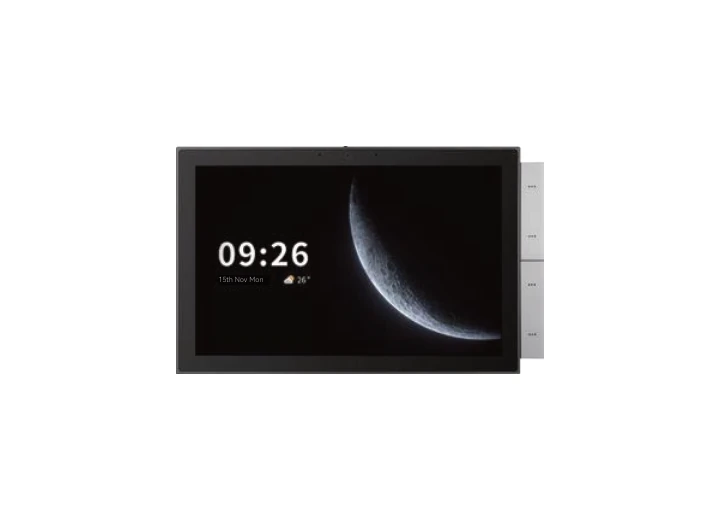
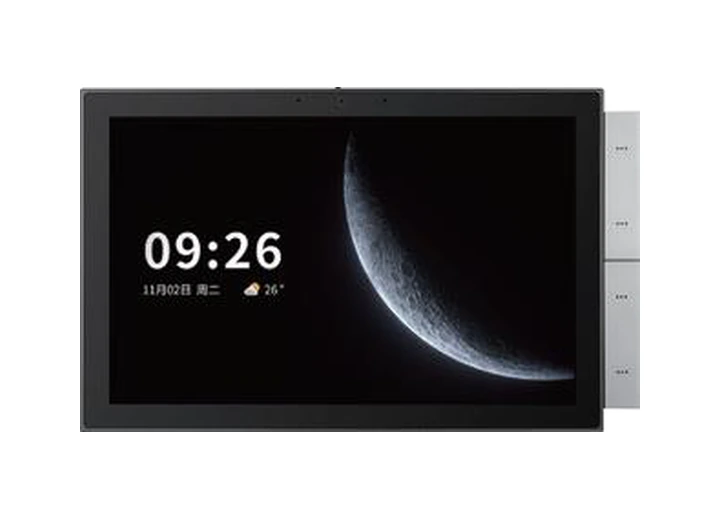
Add complete smart control panel catalogue

diff --git a/app/shop/controlPanelExpansion.ts b/app/shop/controlPanelExpansion.ts
@@ -1,0 +1,158 @@
+import type { Product } from "./products";
+
+const tuyaPairing = "Tuya Zigbee support stated; confirm final pairing before order";
+
+export const controlPanelExpansion: Product[] = [
+  {
+    sku: "KI-TAOS-CP-SCPNS35",
+    model: "SCP-NS3.5",
+    name: "3.5-inch Zigbee relay control panel",
+    category: "Control panels",
+    categoryKey: "panels",
+    family: "Compact relay panels",
+    image: "scp-ns3-5.webp",
+    protocol: "Zigbee / RS485 reserved",
+    ecosystem: "Tuya Zigbee support stated",
+    gateway: "Confirm gateway role with supplier",
+    neutral: "86-type junction box",
+    electrical: "4-channel relay; load rating not stated",
+    size: "86 x 86 x 40.5mm",
+    salesPath: "Configure a project",
+    launchTier: "Conditional",
+    cataloguePage: 30,
+    note: "3.5-inch 320 x 480 display with radar wake, eight scenes, curtain and dimming controls; power and relay ratings require confirmation.",
+  },
+  {
+    sku: "KI-TAOS-CP-SCPTS35",
+    model: "SCP-TS3.5",
+    name: "3.5-inch Wi-Fi, Sigmesh and IR control panel",
+    category: "Control panels",
+    categoryKey: "panels",
+    family: "Compact relay panels",
+    image: "scp-ts3-5.webp",
+    protocol: "Wi-Fi / Sigmesh / IR",
+    ecosystem: "Supplier mobile-app control stated; Tuya pairing not stated",
+    gateway: "Not stated",
+    neutral: "Mains-powered; 86-type base",
+    electrical: "AC 100-240V; 3 x 200W; 600W total",
+    size: "86 x 86 x 36.5mm with base",
+    salesPath: "Configure a project",
+    launchTier: "Conditional",
+    cataloguePage: 30,
+    note: "Three physical buttons, three relays and built-in infrared emitters; exact app and ecosystem must be confirmed.",
+  },
+  {
+    sku: "KI-TAOS-CP-SCPTS4",
+    model: "SCP-TS4",
+    name: "4-inch Zigbee and Bluetooth Mesh control panel",
+    category: "Control panels",
+    categoryKey: "panels",
+    family: "Compact gateway panels",
+    image: "scp-ts4.webp",
+    protocol: "Wi-Fi / Zigbee / Bluetooth Mesh",
+    ecosystem: "Supplier states Zigbee and Bluetooth Mesh gateway functions",
+    gateway: "Built in",
+    neutral: "Mains-powered; EU base",
+    electrical: "AC 100-240V",
+    size: "86 x 86 x 36.2mm with base",
+    salesPath: "Configure a project",
+    launchTier: "Core",
+    cataloguePage: 29,
+    note: "4-inch 480 x 480 Linux panel with Alexa built-in, dual microphones and 1W speaker; final Tuya pairing must be confirmed.",
+  },
+  {
+    sku: "KI-TAOS-CP-SCPNS6",
+    model: "SCP-NS6",
+    name: "6-inch Tuya Zigbee gateway control panel",
+    category: "Control panels",
+    categoryKey: "panels",
+    family: "Central gateway panels",
+    image: "scp-ns6.webp",
+    protocol: "Wi-Fi / Ethernet / Zigbee 3.0 / Bluetooth / RS485",
+    ecosystem: tuyaPairing,
+    gateway: "Tuya Zigbee gateway stated",
+    neutral: "Mains-powered; single 86 box",
+    electrical: "AC 110-250V; 2-channel light control below 200W",
+    size: "208 x 86 x 11.5mm",
+    salesPath: "Configure a project",
+    launchTier: "Extended",
+    cataloguePage: 30,
+    note: "6-inch 1440 x 720 display plus 1.28-inch round screen; Android 8.1, 2GB RAM and 8GB storage are supplier-stated.",
+  },
+  {
+    sku: "KI-TAOS-CP-SCPTS8",
+    model: "SCP-TS8",
+    name: "8-inch Zigbee and Bluetooth gateway control panel",
+    category: "Control panels",
+    categoryKey: "panels",
+    family: "Central gateway panels",
+    image: "scp-ts8.webp",
+    protocol: "Wi-Fi / Ethernet / Zigbee / Bluetooth",
+    ecosystem: "Supplier states Zigbee and Bluetooth Mesh/BLE gateway functions",
+    gateway: "Built in",
+    neutral: "Mains-powered; EU base",
+    electrical: "AC 100-240V",
+    size: "127.5 x 233.5 x 38mm with base",
+    salesPath: "Configure a project",
+    launchTier: "Extended",
+    cataloguePage: 30,
+    note: "8-inch 1280 x 800 Android panel with Alexa built-in and temperature/humidity sensing; final ecosystem pairing must be confirmed.",
+  },
+  {
+    sku: "KI-TAOS-CP-SCPNS8",
+    model: "SCP-NS8",
+    name: "8-inch Tuya Zigbee audio and intercom control panel",
+    category: "Control panels",
+    categoryKey: "panels",
+    family: "Audio & intercom panels",
+    image: "scp-ns8.webp",
+    protocol: "Wi-Fi / Ethernet / Zigbee 3.0 / Bluetooth / RS485",
+    ecosystem: tuyaPairing,
+    gateway: "Tuya Zigbee gateway stated",
+    neutral: "AC 110-250V; secondary input option requires confirmation",
+    electrical: "2-channel strong-current control; each channel below 200W",
+    size: "250 x 133 x 10mm",
+    salesPath: "Configure a project",
+    launchTier: "Conditional",
+    cataloguePage: 30,
+    note: "8-inch 1280 x 800 display with round sub-screen, audio input/output, amplified speaker output and building-intercom interface.",
+  },
+  {
+    sku: "KI-TAOS-CP-SCPTS10",
+    model: "SCP-TS10",
+    name: "10.1-inch whole-home central control panel",
+    category: "Control panels",
+    categoryKey: "panels",
+    family: "Central gateway panels",
+    image: "scp-ts10.webp",
+    protocol: "Wi-Fi / Ethernet / Zigbee / Bluetooth / RS485",
+    ecosystem: "Supplier states Zigbee and Bluetooth Mesh/BLE gateway functions",
+    gateway: "Built in",
+    neutral: "Mains or 12V DC; EU base",
+    electrical: "AC 100-240V or 12V DC; 2-way relay stated",
+    size: "259 x 161 x 39mm with base",
+    salesPath: "Configure a project",
+    launchTier: "Extended",
+    cataloguePage: 29,
+    note: "10.1-inch 1920 x 1200 Android panel with Alexa, front camera and temperature/humidity sensors; final Tuya integration must be confirmed.",
+  },
+  {
+    sku: "KI-TAOS-CP-SCPNS12",
+    model: "SCP-NS12",
+    name: "12.3-inch Tuya Zigbee audio and intercom control panel",
+    category: "Control panels",
+    categoryKey: "panels",
+    family: "Audio & intercom panels",
+    image: "scp-ns12.webp",
+    protocol: "Wi-Fi / Ethernet / Zigbee 3.0 / Bluetooth / RS485",
+    ecosystem: tuyaPairing,
+    gateway: "Tuya Zigbee gateway stated",
+    neutral: "Mains-powered; single or double 86 box",
+    electrical: "AC 110-250V; 2-channel strong-current control; each channel below 200W",
+    size: "357 x 143.5 x 13.5mm",
+    salesPath: "Configure a project",
+    launchTier: "Conditional",
+    cataloguePage: 30,
+    note: "12.3-inch 1920 x 720 Android 11 panel with audio input/output and 2 x 25W amplified speaker output.",
+  },
+];

diff --git a/app/shop/products.ts b/app/shop/products.ts
@@ -1,4 +1,5 @@
 import productData from "./products.json";
+import { controlPanelExpansion } from "./controlPanelExpansion";
 import { lightingExpansion } from "./lightingExpansion";
 import { switchExpansion } from "./switchExpansion";
 
@@ -27,8 +28,21 @@ const replacedLightingModels = new Set([
   "CK-D001-10",
 ]);
 
+const replacedControlPanelModels = new Set([
+  "SCP-TS4",
+  "SCP-TS8",
+  "SCP-TS10",
+]);
+
 const baseProducts = (productData as Product[]).filter(
-  (product) => !replacedLightingModels.has(product.model)
+  (product) =>
+    !replacedLightingModels.has(product.model) &&
+    !replacedControlPanelModels.has(product.model)
 );
 
-export const products = [...baseProducts, ...switchExpansion, ...lightingExpansion];
+export const products = [
+  ...baseProducts,
+  ...switchExpansion,
+  ...lightingExpansion,
+  ...controlPanelExpansion,
+];

diff --git a/app/shop/ShopCatalog.tsx b/app/shop/ShopCatalog.tsx
@@ -17,6 +17,12 @@ const lightingFamilies = [
   "LED strips",
   "Track & power",
 ];
+const panelFamilies = [
+  "Compact relay panels",
+  "Compact gateway panels",
+  "Central gateway panels",
+  "Audio & intercom panels",
+];
 
 export default function ShopCatalog() {
   const base = process.env.NEXT_PUBLIC_BASE_PATH ?? "";
@@ -24,6 +30,7 @@ export default function ShopCatalog() {
   const [path, setPath] = useState<(typeof paths)[number]>("All");
   const [series, setSeries] = useState("all");
   const [lightingFamily, setLightingFamily] = useState("all");
+  const [panelFamily, setPanelFamily] = useState("all");
   const [query, setQuery] = useState("");
   const filtered = useMemo(() => {
     const term = query.trim().toLowerCase();
@@ -33,9 +40,10 @@ export default function ShopCatalog() {
       (category !== "switches" || series === "all" || product.series === series ||
         (!product.series && product.model.toLowerCase().startsWith(series.toLowerCase()))) &&
       (!["lighting", "drivers"].includes(category) || lightingFamily === "all" || product.family === lightingFamily) &&
+      (category !== "panels" || panelFamily === "all" || product.family === panelFamily) &&
       (!term || [product.name, product.model, product.sku, product.protocol, product.category].some((value) => value.toLowerCase().includes(term)))
     );
-  }, [category, lightingFamily, path, query, series]);
+  }, [category, lightingFamily, panelFamily, path, query, series]);
 
   return <>
     <section className="shop-controls shell" aria-label="Catalogue filters">
@@ -43,10 +51,11 @@ export default function ShopCatalog() {
       <div className="filter-block"><span>Category</span><div className="filter-pills"><button className={category === "all" ? "active" : ""} onClick={() => setCategory("all")}>All</button>{categories.map(([key, label]) => <button className={category === key ? "active" : ""} onClick={() => setCategory(key)} key={key}>{label}</button>)}</div></div>
       {category === "switches" && <div className="filter-block"><span>Switch series</span><div className="filter-pills"><button className={series === "all" ? "active" : ""} onClick={() => setSeries("all")}>All series</button>{switchSeries.map((item) => <button className={series === item ? "active" : ""} onClick={() => setSeries(item)} key={item}>{item}</button>)}</div></div>}
       {["lighting", "drivers"].includes(category) && <div className="filter-block"><span>Lighting family</span><div className="filter-pills"><button className={lightingFamily === "all" ? "active" : ""} onClick={() => setLightingFamily("all")}>All lighting</button>{lightingFamilies.map((item) => <button className={lightingFamily === item ? "active" : ""} onClick={() => setLightingFamily(item)} key={item}>{item}</button>)}</div></div>}
+      {category === "panels" && <div className="filter-block"><span>Panel family</span><div className="filter-pills"><button className={panelFamily === "all" ? "active" : ""} onClick={() => setPanelFamily("all")}>All panels</button>{panelFamilies.map((item) => <button className={panelFamily === item ? "active" : ""} onClick={() => setPanelFamily(item)} key={item}>{item}</button>)}</div></div>}
       <div className="filter-block path-filter"><span>How to buy</span><div className="filter-pills">{paths.map((item) => <button className={path === item ? "active" : ""} onClick={() => setPath(item)} key={item}>{item}</button>)}</div></div>
     </section>
     <section className="catalogue shell" id="catalogue">
-      <div className="catalogue-heading"><div><p className="section-kicker light">Complete catalogue range</p><h2>{filtered.length} products</h2></div><p>All supplier-catalogue switch and smart-lighting families are represented. KI Analysix holds physical samples for most switch families; exact protocol, finish, lighting configuration and availability are confirmed with every request.</p></div>
+      <div className="catalogue-heading"><div><p className="section-kicker light">Complete catalogue range</p><h2>{filtered.length} products</h2></div><p>All supplier-catalogue switch, smart-lighting and control-panel families are represented. KI Analysix holds physical samples for most switch families; exact protocol, finish, panel features, lighting configuration and availability are confirmed with every request.</p></div>
       <div className="product-grid">{filtered.map((product) => {
         const message = encodeURIComponent(`Hello KI Analysix,\n\nI would like to request the current price and availability for:\nProduct: ${product.name}\nModel: ${product.model}\nSKU: ${product.sku}\nPreferred path: ${product.salesPath}\n\nQuantity:\nProject location:\nInstallation required: Yes / No`);
         const imageName = product.image ?? `${product.model.toLowerCase().replace(/[^a-z0-9]+/g, "-").replace(/^-|-$/g, "")}.webp`;
@@ -59,7 +68,7 @@ export default function ShopCatalog() {
           <a href={`https://wa.me/2349011151234?text=${message}`} target="_blank" rel="noopener noreferrer">Request price & availability <span>↗</span></a>
         </article>;
       })}</div>
-      {filtered.length === 0 && <div className="empty-results"><h3>No products match those filters.</h3><button onClick={() => { setQuery(""); setCategory("all"); setSeries("all"); setLightingFamily("all"); setPath("All"); }}>Reset catalogue</button></div>}
+      {filtered.length === 0 && <div className="empty-results"><h3>No products match those filters.</h3><button onClick={() => { setQuery(""); setCategory("all"); setSeries("all"); setLightingFamily("all"); setPanelFamily("all"); setPath("All"); }}>Reset catalogue</button></div>}
     </section>
   </>;
 }

diff --git a/app/shop/page.tsx b/app/shop/page.tsx
@@ -3,7 +3,7 @@ import ShopCatalog from "./ShopCatalog";
 import SystemBuilder from "./SystemBuilder";
 import { products } from "./products";
 
-export const metadata = { title: "Smart Technology Shop | KI Analysix System", description: "Complete TAOS smart-switch and smart-lighting ranges with Tuya-compatible products, installation and project configuration." };
+export const metadata = { title: "Smart Technology Shop | KI Analysix System", description: "Complete TAOS smart-switch, smart-lighting and control-panel ranges with Tuya-compatible products, installation and project configuration." };
 
 const packages = [
   ["Smart lighting starter", "Gateway, two smart switches and a motion sensor", "Apartment · Retrofit"],
@@ -18,7 +18,7 @@ export default function ShopPage() {
   const expertMessage = encodeURIComponent("Hello KI Analysix, I need help choosing compatible smart products for my project.\n\nProject type:\nLocation:\nWhat I want to automate:");
   return <main className="shop-page">
     <header className="site-header shop-header"><Link className="brand" href="/" aria-label="KI Analysix System home"><img src={`${base}/ki-analysix-logo.png`} alt="KI Analysix System" /><span className="brand-name">KI Analysix System</span></Link><nav aria-label="Shop navigation"><Link href="/">Home</Link><a href="#catalogue">Products</a><a href="#packages">Packages</a><a href="#builder">Build your system</a></nav><a className="header-cta" href={`https://wa.me/2349011151234?text=${expertMessage}`} target="_blank" rel="noopener noreferrer"><span>Ask an expert</span><span aria-hidden="true">↗</span></a></header>
-    <section className="shop-hero"><div className="shop-hero-grid" aria-hidden="true" /><div className="shell shop-hero-layout"><div><p className="eyebrow"><span /> Curated smart technology</p><h1>Choose devices that work <em>together.</em></h1><p>Browse complete smart-switch and smart-lighting families from the TAOS catalogue, with compatibility, wiring and installation guidance built into every buying path.</p><div className="hero-actions"><a className="button button-primary" href="#catalogue">Browse products <span>↓</span></a><a className="button button-ghost" href="#builder">Build your system <span>↗</span></a></div></div><aside><div><span>Catalogue range</span><strong>{products.length}</strong><small>represented products</small></div><div><span>Product families</span><strong>{categoryCount}</strong><small>from one connected ecosystem</small></div><p>Supplier stock, certification and final Tuya/Smart Life pairing are verified before an order is accepted.</p></aside></div></section>
+    <section className="shop-hero"><div className="shop-hero-grid" aria-hidden="true" /><div className="shell shop-hero-layout"><div><p className="eyebrow"><span /> Curated smart technology</p><h1>Choose devices that work <em>together.</em></h1><p>Browse complete smart-switch, smart-lighting and control-panel families from the TAOS catalogue, with compatibility, wiring and installation guidance built into every buying path.</p><div className="hero-actions"><a className="button button-primary" href="#catalogue">Browse products <span>↓</span></a><a className="button button-ghost" href="#builder">Build your system <span>↗</span></a></div></div><aside><div><span>Catalogue range</span><strong>{products.length}</strong><small>represented products</small></div><div><span>Product families</span><strong>{categoryCount}</strong><small>from one connected ecosystem</small></div><p>Supplier stock, certification and final Tuya/Smart Life pairing are verified before an order is accepted.</p></aside></div></section>
     <section className="shop-paths shell"><article><span>01</span><h2>Buy directly</h2><p>Selected plug-in or battery-powered devices that need no specialist installation.</p></article><article><span>02</span><h2>Buy with installation</h2><p>Switches, sensors and modules supplied with the right installation and commissioning scope.</p></article><article><span>03</span><h2>Configure a project</h2><p>Multi-room, hospitality, curtain, climate and lighting systems designed before procurement.</p></article></section>
     <ShopCatalog />
     <section className="package-section" id="packages"><div className="shell"><div className="catalogue-heading"><div><p className="section-kicker">Start with an outcome</p><h2>Smart packages</h2></div><p>Packages are design starting points. Exact quantities and models are confirmed after a compatibility review.</p></div><div className="package-grid">{packages.map((item, index) => {